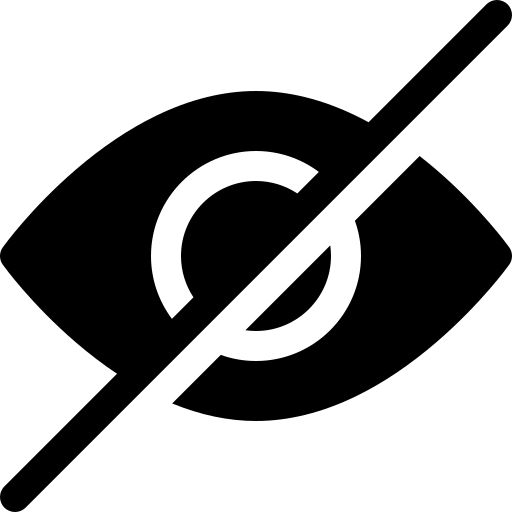
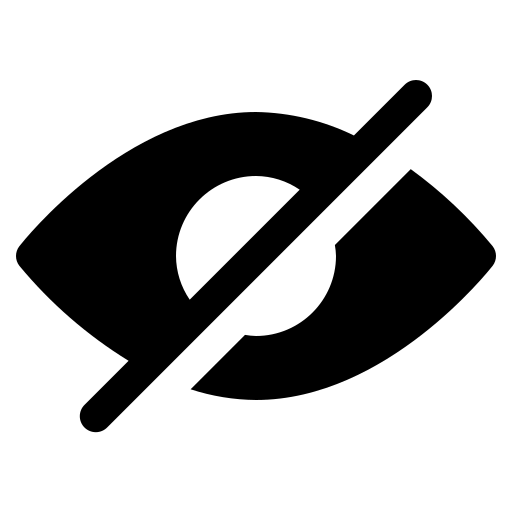
value taking from text input, onBlur implemented, password show hide func. implemnetd, scrollview added

diff --git a/src/screens/TextInputView.jsx b/src/screens/TextInputView.jsx
@@ -1,93 +1,139 @@
-import { Pressable, SafeAreaView, StyleSheet, Text, TextInput, View } from 'react-native'
+import { Image, Keyboard, Pressable, SafeAreaView, ScrollView, StyleSheet, Text, TextInput, TouchableOpacity, View } from 'react-native'
 import React, { useState } from 'react'
-import { DismissKeyboard } from '../util/DismissKeyBoard'
 
 const TextInputView = () => {
-    // const [formData, setFormData] = useState({
-    //     email: "",
-    //     password: ""
-    // })
+    const [formData, setFormData] = useState({
+        email: "",
+        password: ""
+    })
+
+    const [show, setShow] = useState(false)
 
 
     // onPress func.
     const handleOnPress = () => {
-        alert("Button Pressed");
-        // console.log(formData);
+        if (formData?.email && formData?.password) {
+            alert("Taka-Poisa Nei Login Kore Ki Korbi ???");
+            console.log(formData);
+            setFormData({ email: "", password: "" })
+        } else {
+            alert("Email ID ar Password Ki Tor Bap Debe Suar ???");
+        }
     }
 
     return (
-        <SafeAreaView style={styles.parent}>
-            {/* Login Text */}
-            <Text style={styles.loginText}>LOGIN</Text>
-            <DismissKeyboard>
-                <View style={styles.textinput}>
+        <SafeAreaView style={styles.container}>
+            <ScrollView style={styles.ScrollView}>
+                <View style={styles.wrap}>
 
-                    {/* Email */}
-                    <TextInput
-                        style={styles.input}
-                        // value={formData?.email}
-                        // onChange={(e) => setFormData(e.target.value)}
-                        placeholder='Enter Your Email ID'
-                    />
+                    {/* Login Text */}
+                    <View style={styles.text_wrap}>
+                        <Text style={styles.loginText}>LOGIN</Text>
+                    </View>
 
-                    {/* Password */}
-                    <TextInput
-                        style={styles.input}
-                        // value={formData?.password}
-                        // onChange={(e) => setFormData(e.target.value)}
-                        placeholder='Enter Your Password'
-                        secureTextEntry={true}
-                    />
+                    <View>
+                        {/* Email */}
+                        <View style={styles.inputView}>
+                            <TextInput
+                                inputMode='email'
+                                style={styles.input}
+                                value={formData?.email}
+                                onChangeText={(value) => setFormData({ ...formData, email: value })}
+                                placeholder='Enter Your Email ID'
+                                placeholderTextColor={"#008b8b"}
+                                onBlur={() => Keyboard.dismiss()}
+                            />
+                        </View>
 
-                    {/* Button */}
-                    <View style={styles.button_wrap}>
-                        <Pressable
-                            style={({ pressed }) => [{ backgroundColor: pressed ? "#59da30" : "#4ec429" }, styles.button]}
-                            onPress={handleOnPress}
-                            hitSlop={{ top: 10, right: 10, bottom: 10, left: 10 }}
-                            android_ripple={{ color: "#3fb919" }}
-                        >
-                            <Text style={styles.button_text}>Log In</Text>
-                        </Pressable>
+                        {/* Password */}
+                        <View style={styles.inputView}>
+                            <TextInput
+                                inputMode='text'
+                                style={styles.input}
+                                value={formData?.password}
+                                onChangeText={(value) => setFormData({ ...formData, password: value })}
+                                placeholder='Enter Your Password'
+                                placeholderTextColor={"#008b8b"}
+                                onBlur={() => Keyboard.dismiss()}
+                                secureTextEntry={show ? false : true}
+                            />
+                            <TouchableOpacity
+                                style={styles.showPass}
+                                onPress={() => show ? setShow(false) : setShow(true)}
+                            >
+                                {
+                                    show ?
+                                        <Image
+                                            style={styles.stretch}
+                                            source={require('../assets/view.png')}
+                                        />
+                                        :
+                                        <Image
+                                            style={styles.stretch}
+                                            source={require('../assets/hide.png')}
+                                        />
+                                }
+                            </TouchableOpacity>
+                        </View>
+
+                        {/* Button */}
+                        <View style={styles.button_wrap}>
+                            <TouchableOpacity
+                                style={styles.button}
+                                onPress={handleOnPress}
+                                hitSlop={{ top: 10, right: 10, bottom: 10, left: 10 }}
+                                activeOpacity={0.6}
+                            >
+                                <Text style={styles.button_text}>Log In</Text>
+                            </TouchableOpacity>
+                        </View>
                     </View>
                 </View>
-            </DismissKeyboard>
-        </SafeAreaView>
+            </ScrollView>
+        </SafeAreaView >
     )
 }
 
 export default TextInputView
 
 const styles = StyleSheet.create({
-    parent: {
+    container: {
         flex: 1,
-        backgroundColor: "#c2ecb6",
+        backgroundColor: "#00ff7f",
+    },
+    wrap: {
+        // flex: 1,
+        // height: "100%",
+        // borderWidth: 1,
+        // borderColor: "red",
         alignItems: "center",
-        justifyContent: "center"
+    },
+    // ScrollView: {
+    //     flex: 1,
+    // },
+    text_wrap: {
+        marginTop: 100,
     },
     loginText: {
-        flex: 1,
         fontSize: 50,
-        color: "#3fb919",
+        color: "#00008b",
         fontWeight: 500,
-        marginTop: 100
     },
-    textinput: {
-        flex: 3,
-    },
-    input: {
+    inputView: {
         borderWidth: 1,
+        borderColor: "#d5daed",
         width: 370,
         height: 55,
+        flexDirection: "row",
         margin: 15,
-        borderColor: "#d5daed",
-        borderRadius: 50,
+        borderRadius: 8,
         fontSize: 16,
-        paddingLeft: 25,
-        backgroundColor: '#f0fafa'
+        backgroundColor: '#f0fafa',
+        alignItems: "center"
     },
     button_wrap: {
         marginTop: 20,
+        marginBottom: 20,
         alignItems: "center",
         justifyContent: 'center',
     },
@@ -99,10 +145,31 @@ const styles = StyleSheet.create({
         paddingBottom: 8,
         textAlign: "center",
         borderRadius: 5,
+        backgroundColor: "#0000ff"
     },
     button_text: {
         fontSize: 20,
         fontWeight: 500,
         color: "#ffffff"
+    },
+    input: {
+        // borderWidth: 1,
+        // borderColor: "red",
+        paddingLeft: 20,
+        width: "88%",
+        height: 55,
+        borderRadius: 8,
+    },
+    stretch: {
+        width: 23,
+        height: 23,
+    },
+    showPass: {
+        width: "12%",
+        height: 55,
+        alignItems: "center",
+        justifyContent: "center",
+        // borderWidth: 1,
+        // borderColor: "red",
     }
 })
